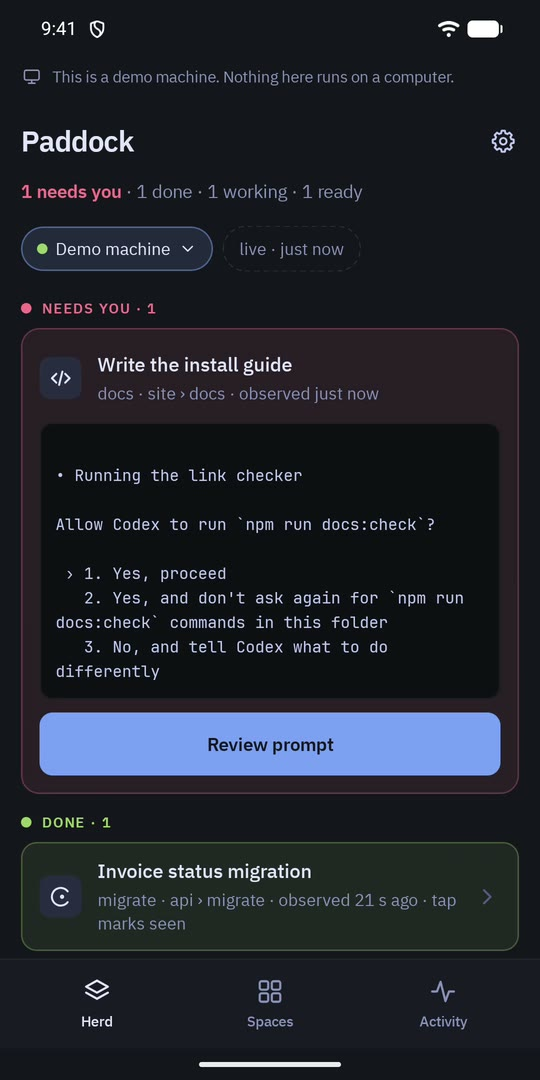
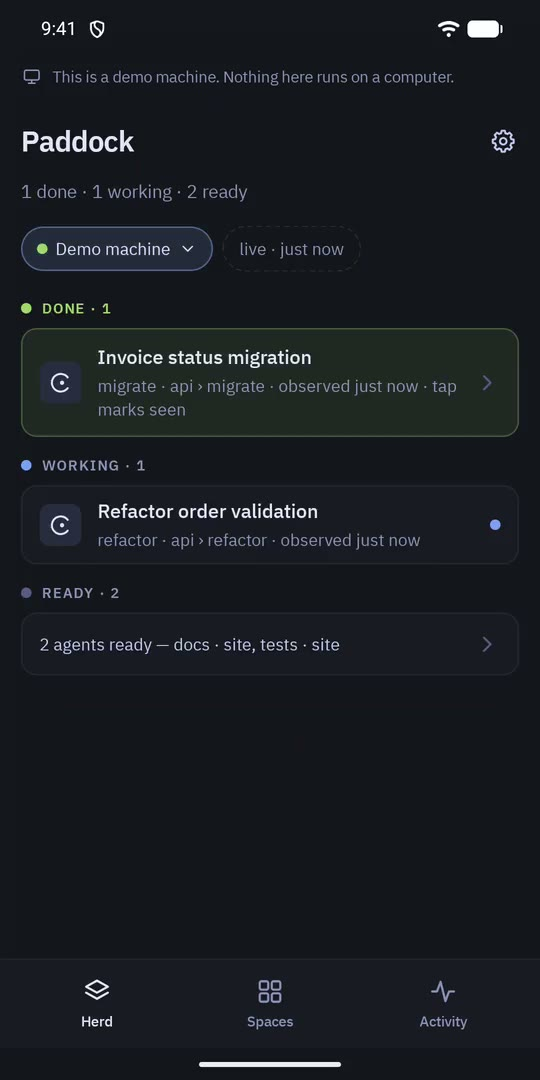
site: the demo recording looks like a video: a play button with its length over the poster, a Watch the demo button, chapters that seek, and links from the nav and the hero
The recording sat in a phone frame that looked like a screenshot, with native controls that appear only on hover. Now a large play button and a '1:21' label sit on the poster (a calmer frame, with room for it), 'Watch the demo' in the section and in the hero scrolls to it and plays, six chapters (0:00, 0:10, 0:26, 0:33, 0:51, 1:03) sit under the video and follow it, the nav has a Demo link, and the video offers Watch again at the end. The controls are added by assets/clip.js and hidden until it runs, so without scripts the video keeps its own controls. Checked in headless Chromium by a script (play, seek by chapter, the marked chapter, resume, replay, the nav and hero links: 10 of 10) and by screenshots at 1280 and 390 px; the video, poster and chapters are unchanged in content.

diff --git a/site/index.html b/site/index.html
@@ -12,7 +12,7 @@
 <body>
 <header class="top"><div class="wrap">
 <a class="brand" href="#top" aria-label="Paddock, back to top"><svg viewBox="0 0 108 108" aria-hidden="true"><defs><linearGradient id="bg1" x1="0" y1="0" x2="0" y2="108" gradientUnits="userSpaceOnUse"><stop offset="0" stop-color="#292e42"/><stop offset="1" stop-color="#16161e"/></linearGradient><linearGradient id="bp1" x1="0" y1="29" x2="0" y2="78" gradientUnits="userSpaceOnUse"><stop offset="0" stop-color="#a4bdff"/><stop offset="1" stop-color="#5f82db"/></linearGradient></defs><rect width="108" height="108" fill="url(#bg1)"/><path d="M40.5 29V78M40.5 36H54.5a12.5 12.5 0 0 1 0 25H40.5" fill="none" stroke="url(#bp1)" stroke-width="9" stroke-linecap="round" stroke-linejoin="round"/><circle cx="53.5" cy="48.5" r="5" fill="#f7768e"/></svg>Paddock</a>
-<nav aria-label="Sections"><a href="#how">How it works</a><a href="#features">Features</a><a href="#install">Pairing</a><a href="#security">Security</a><a href="#faq">FAQ</a></nav>
+<nav aria-label="Sections"><a href="#how">How it works</a><a href="#app">Demo</a><a href="#features">Features</a><a href="#install">Pairing</a><a href="#security">Security</a><a href="#faq">FAQ</a></nav>
 <a class="pbtn pri navcta" href="#install">Get started</a>
 </div></header>
 
@@ -24,7 +24,7 @@
 <p class="lede"><strong>Paddock</strong> puts every coding agent running in <a href="https://herdr.dev">herdr</a> on your phone. When one stops to ask for a permission or a decision, you get an alert, read exactly what it wants, and answer. Then the work keeps moving while you are away from your desk.</p>
 <div class="hero-side">
 <p class="lede small">It connects straight to your machine over SSH. No cloud, no account, no relay.</p>
-<div class="ctas"><a class="pbtn pri" href="#install">Pair your phone</a><a class="pbtn" href="#features">See what it does</a></div>
+<div class="ctas"><a class="pbtn pri" href="#install">Pair your phone</a><a class="pbtn" href="#features">See what it does</a><a class="pbtn" href="#app"><svg viewBox="0 0 24 24" fill="currentColor" aria-hidden="true"><path d="M8 5.5v13a1 1 0 0 0 1.5.86l10.5-6.5a1 1 0 0 0 0-1.72L9.5 4.64A1 1 0 0 0 8 5.5z"/></svg>Watch the demo</a></div>
 </div>
 </div>
 
@@ -91,26 +91,28 @@
 <section class="blk wrap" id="app">
 <div class="two">
 <div>
-<p class="kick"><span class="dot green"></span>The app</p>
+<p class="kick"><span class="dot green"></span>The app<span aria-hidden="true">·</span>1:21 video</p>
 <h2 class="h2">Look around before you pair anything.</h2>
 <p class="copy">Paddock has a demo machine: four example agents on a script, nothing running on a computer and no network used. Tap <b>Try a demo</b> on the first screen, watch an agent stop to ask, read what it wants, send a prompt to another and see it answer. Remove it from its page when you are done.</p>
-<p class="copy">The recording shows exactly that, from the demo machine in the app. The agents and their output are examples.</p>
-<details class="clipsteps"><summary>What the recording shows</summary>
-<ol>
-<li>The first screen, then Try a demo.</li>
-<li>Home with one agent done, one working and two ready; the working agent's output and its read-only terminal.</li>
-<li>Twenty seconds in, a Codex agent blocks. Home puts it first, with the question.</li>
-<li>Review prompt opens its terminal on the question.</li>
-<li>An idle agent's Output, a prompt typed and sent, the agent working and then done.</li>
-<li>Spaces, and Home again.</li>
-</ol>
-</details>
+<div class="ctas"><button class="pbtn pri" id="clipGo" type="button"><svg viewBox="0 0 24 24" fill="currentColor" aria-hidden="true"><path d="M8 5.5v13a1 1 0 0 0 1.5.86l10.5-6.5a1 1 0 0 0 0-1.72L9.5 4.64A1 1 0 0 0 8 5.5z"/></svg>Watch the demo <span class="mono">1:21</span></button></div>
+<p class="note">Recorded from the demo machine in the app, with no sound. The agents and their output are examples.</p>
 </div>
 <div class="clipwrap">
-<video class="clip" controls playsinline preload="metadata" poster="assets/demo-poster.jpg" aria-label="A recording of Paddock's demo machine, 1 minute 21 seconds, no sound.">
+<div class="clipbox" id="clipBox">
+<video class="clip" id="clip" controls playsinline preload="metadata" poster="assets/demo-poster.jpg" aria-label="A recording of Paddock's demo machine, 1 minute 21 seconds, no sound.">
 <source src="assets/demo.mp4" type="video/mp4">
 <p>Your browser cannot play this video. <a href="assets/demo.mp4">Download the recording</a> (MP4, 1 MB).</p>
 </video>
+<button class="clipplay" id="clipPlay" type="button" hidden aria-label="Play the recording of the demo, 1 minute 21 seconds"><span class="disc"><svg viewBox="0 0 24 24" fill="currentColor" aria-hidden="true"><path d="M8 5.5v13a1 1 0 0 0 1.5.86l10.5-6.5a1 1 0 0 0 0-1.72L9.5 4.64A1 1 0 0 0 8 5.5z"/></svg></span><span class="lbl"><span class="lt">Watch the demo</span><b>1:21</b></span></button>
+</div>
+<ol class="chapters clipchap" id="clipChapters" aria-label="Chapters of the recording">
+<li><button type="button" data-t="0"><span class="tcode">0:00</span><span class="nm">Open the demo</span></button></li>
+<li><button type="button" data-t="10"><span class="tcode">0:10</span><span class="nm">An agent works</span></button></li>
+<li><button type="button" data-t="26"><span class="tcode">0:26</span><span class="nm">Another one blocks</span></button></li>
+<li><button type="button" data-t="33"><span class="tcode">0:33</span><span class="nm">Read what it asks</span></button></li>
+<li><button type="button" data-t="51"><span class="tcode">0:51</span><span class="nm">Send a prompt</span></button></li>
+<li><button type="button" data-t="63"><span class="tcode">1:03</span><span class="nm">See it answer</span></button></li>
+</ol>
 </div>
 </div>
 </section>
@@ -256,5 +258,6 @@
 <script src="assets/reel.js"></script>
 <script src="assets/audio.js"></script>
 <script src="assets/page.js"></script>
+<script src="assets/clip.js"></script>
 </body>
 </html>

diff --git a/site/assets/paddock.css b/site/assets/paddock.css
@@ -511,10 +511,21 @@ html.render .stage{position:fixed;left:0;top:0;transform:none}
 .steps span b{color:var(--title);font-weight:600}
 
 /* ---------- the real app: the demo recording ---------- */
-.clipwrap{display:flex;justify-content:center}
-.clip{display:block;width:min(100%,300px);aspect-ratio:1/2;object-fit:contain;border-radius:28px;border:1px solid var(--line);background:var(--slab);box-shadow:0 24px 60px -24px rgba(0,0,0,.7)}
+.clipwrap{display:flex;flex-direction:column;align-items:center}
+.clipbox{position:relative;width:min(100%,320px)}
+.clip{display:block;width:100%;aspect-ratio:1/2;object-fit:contain;border-radius:28px;border:1px solid var(--line);background:var(--slab);box-shadow:0 24px 60px -24px rgba(0,0,0,.7)}
 .clip p{padding:24px;font-size:15px;color:var(--dim)}
-.clipsteps{margin:20px 0 0;max-width:36em;font-size:15px;color:var(--dim)}
-.clipsteps summary{cursor:pointer;color:var(--text)}
-.clipsteps ol{margin:12px 0 0;padding-left:22px;line-height:1.55}
-.clipsteps li{margin:4px 0}
+.clipplay{all:unset;box-sizing:border-box;position:absolute;inset:0;border-radius:28px;cursor:pointer;display:flex;flex-direction:column;align-items:center;justify-content:center;gap:16px;background:linear-gradient(180deg,rgba(15,15,20,.10),rgba(15,15,20,.62));color:var(--title)}
+.clipplay[hidden]{display:none}
+.clipplay .disc{width:84px;height:84px;border-radius:50%;background:var(--accent);color:var(--ground);display:grid;place-items:center;box-shadow:0 10px 34px rgba(122,162,247,.5);transition:transform .15s,background .15s}
+.clipplay .disc svg{width:36px;height:36px;margin-left:4px}
+.clipplay:hover .disc{transform:scale(1.06);background:var(--accent-hi)}
+.clipplay .lbl{font:600 15px var(--body);background:rgba(15,15,20,.82);border:1px solid var(--hair2);padding:9px 16px;border-radius:999px;white-space:nowrap}
+.clipplay .lbl b{font:500 14px var(--mono);color:var(--accent-hi);margin-left:8px}
+.clipplay:focus-visible{outline:2px solid var(--accent-hi);outline-offset:4px}
+.clipbox.playing .clipplay{display:none}
+@media (prefers-reduced-motion:no-preference){.clipplay .disc{animation:clipPulse 2.6s ease-out infinite}@keyframes clipPulse{0%{box-shadow:0 10px 34px rgba(122,162,247,.5),0 0 0 0 rgba(122,162,247,.5)}70%,100%{box-shadow:0 10px 34px rgba(122,162,247,.5),0 0 0 22px rgba(122,162,247,0)}}}
+#app .ctas{margin:26px 0 0}
+#app .ctas .mono{font-size:13px;opacity:.75}
+.clipchap{grid-template-columns:repeat(2,minmax(0,1fr));width:min(100%,320px);margin-top:14px}
+@media (max-width:520px){.clipchap{grid-template-columns:repeat(2,minmax(0,1fr))}}

diff --git a/site/assets/clip.js b/site/assets/clip.js
@@ -1,0 +1,41 @@
+/* The demo recording's controls: a play button over the poster, a "Watch the demo" button, and chapters that seek. Without this script the video keeps its own controls. */
+(function () {
+  'use strict';
+  var v = document.getElementById('clip'), box = document.getElementById('clipBox'), play = document.getElementById('clipPlay'), go = document.getElementById('clipGo');
+  if (!v || !box || !play) return;
+  var chapters = Array.prototype.slice.call(document.querySelectorAll('#clipChapters button'));
+  var label = play.querySelector('.lt');
+  var reduced = window.matchMedia && window.matchMedia('(prefers-reduced-motion: reduce)').matches;
+  v.removeAttribute('controls');
+  play.hidden = false;
+
+  function start(t) {
+    if (typeof t === 'number') { try { v.currentTime = t; } catch (e) { /* metadata not loaded yet: it plays from the start */ } }
+    v.setAttribute('controls', '');
+    box.classList.add('playing');
+    var p = v.play();
+    if (p && p.catch) p.catch(function () { box.classList.remove('playing'); });
+  }
+  function mark() {
+    var now = v.currentTime, on = -1;
+    chapters.forEach(function (b, i) { if (Number(b.getAttribute('data-t')) <= now + 0.25) on = i; });
+    chapters.forEach(function (b, i) { b.classList.toggle('on', i === on && (!v.paused || now > 0)); });
+  }
+  play.addEventListener('click', function () { start(v.ended ? 0 : undefined); });
+  if (go) go.addEventListener('click', function () {
+    box.scrollIntoView({ block: 'center', behavior: reduced ? 'auto' : 'smooth' });
+    start(v.ended || v.currentTime === 0 ? 0 : undefined);
+  });
+  chapters.forEach(function (b) {
+    b.addEventListener('click', function () { start(Number(b.getAttribute('data-t'))); });
+  });
+  v.addEventListener('timeupdate', mark);
+  v.addEventListener('seeked', mark);
+  v.addEventListener('ended', function () {
+    box.classList.remove('playing');
+    v.removeAttribute('controls');
+    if (label) label.textContent = 'Watch again';
+    chapters.forEach(function (b) { b.classList.remove('on'); });
+  });
+  v.addEventListener('play', function () { if (label) label.textContent = 'Watch the demo'; });
+})();
